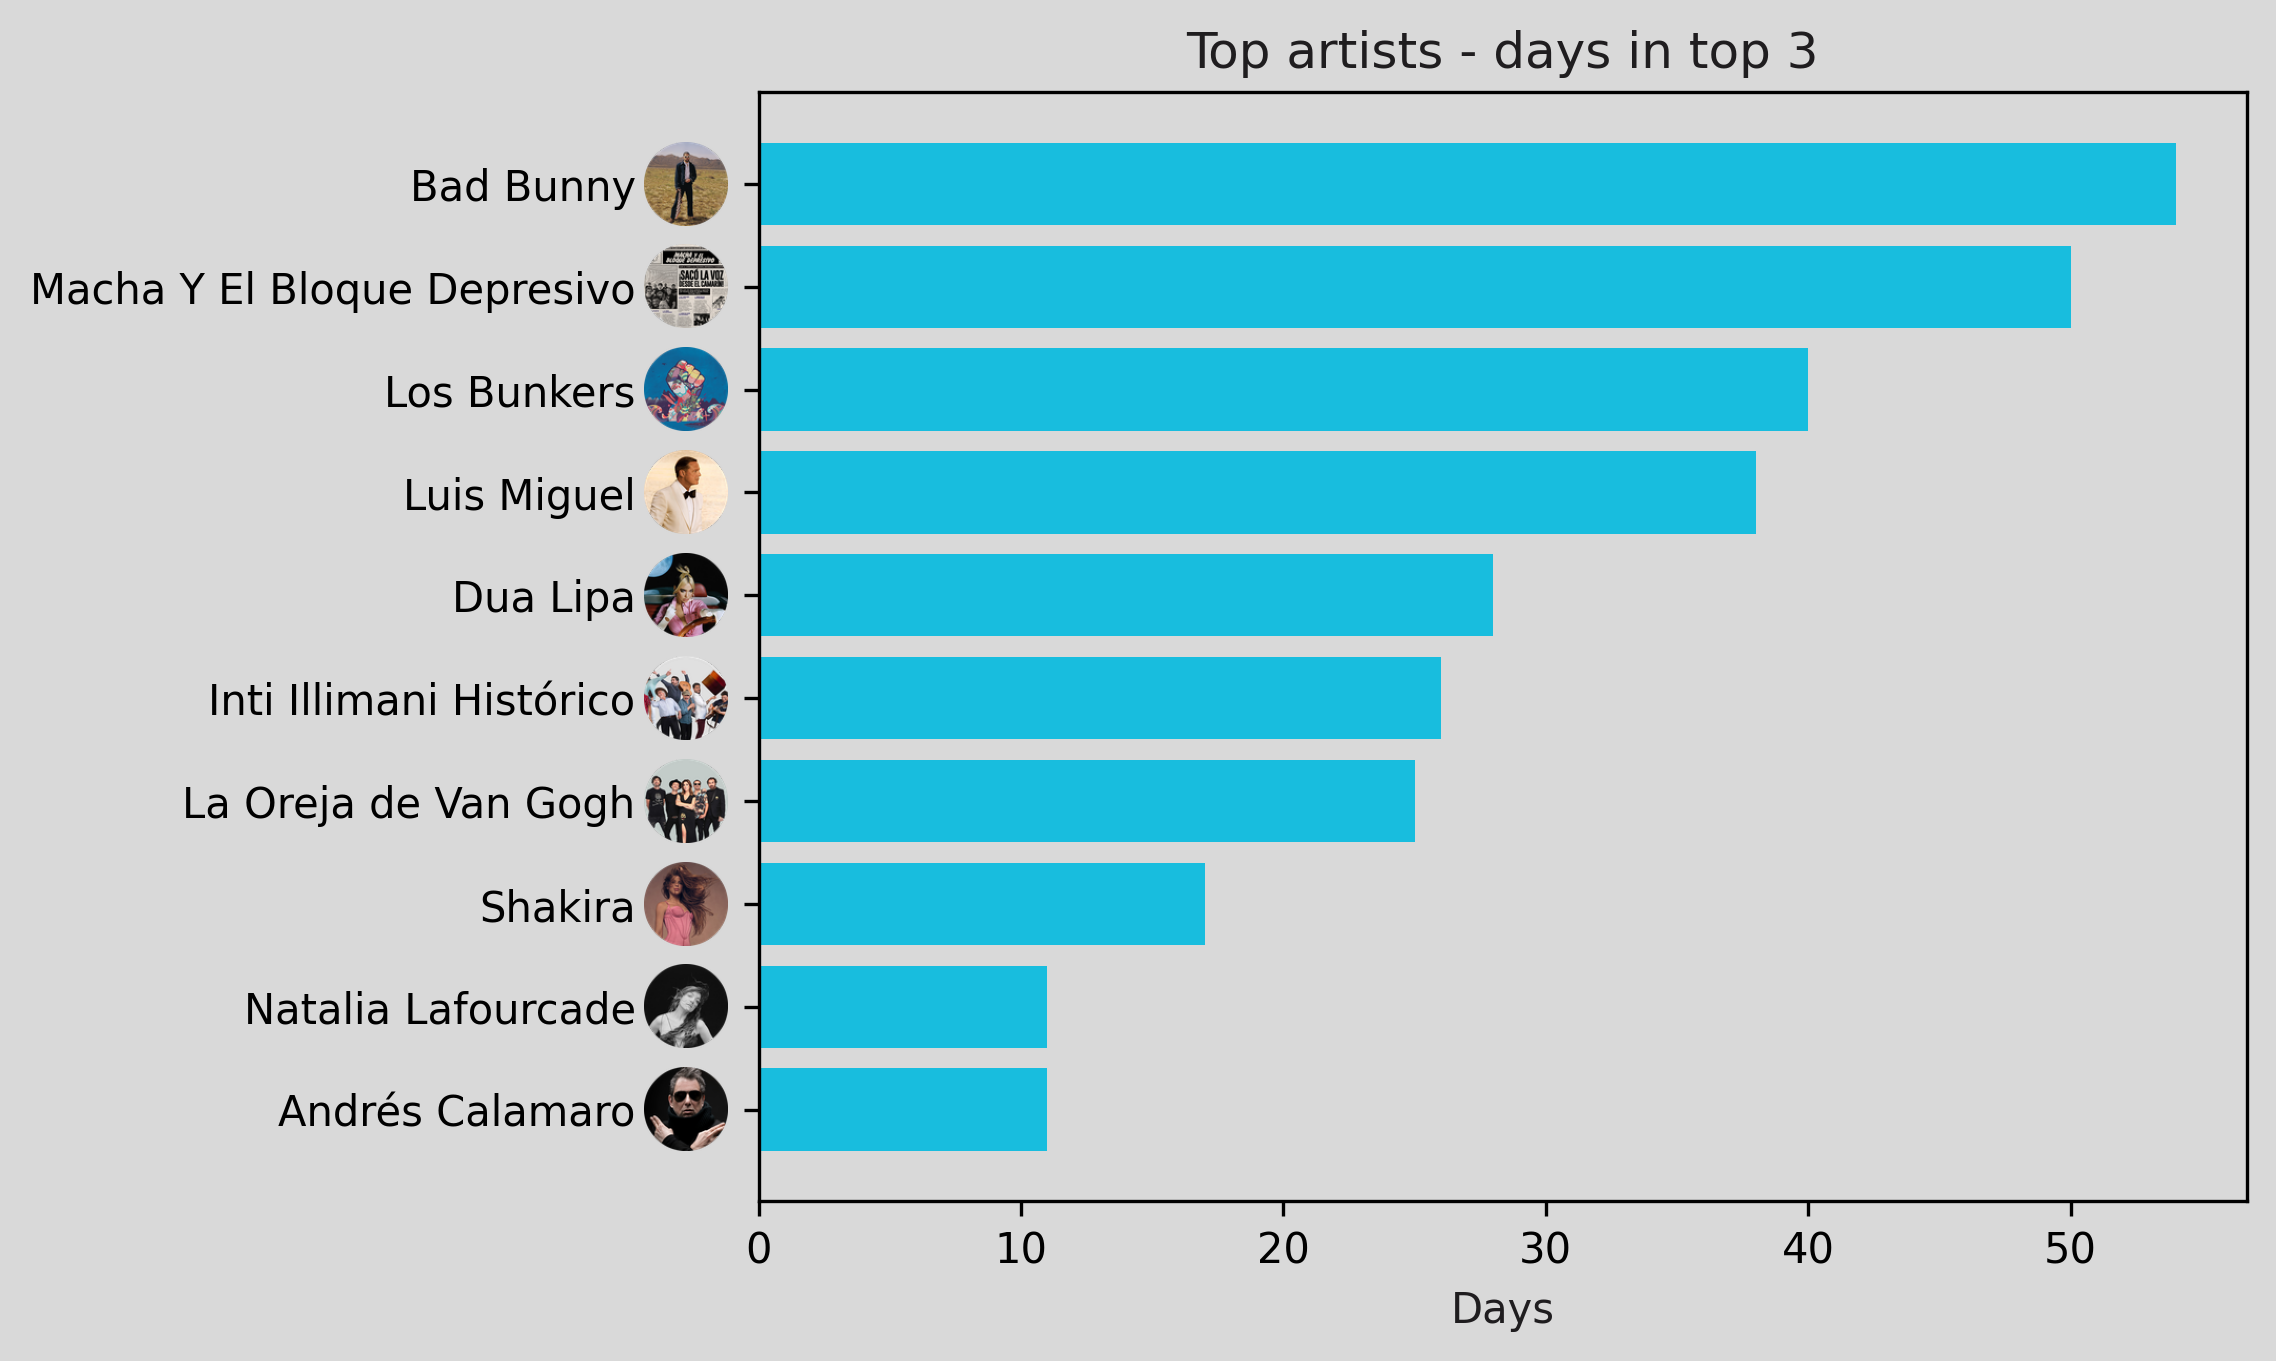
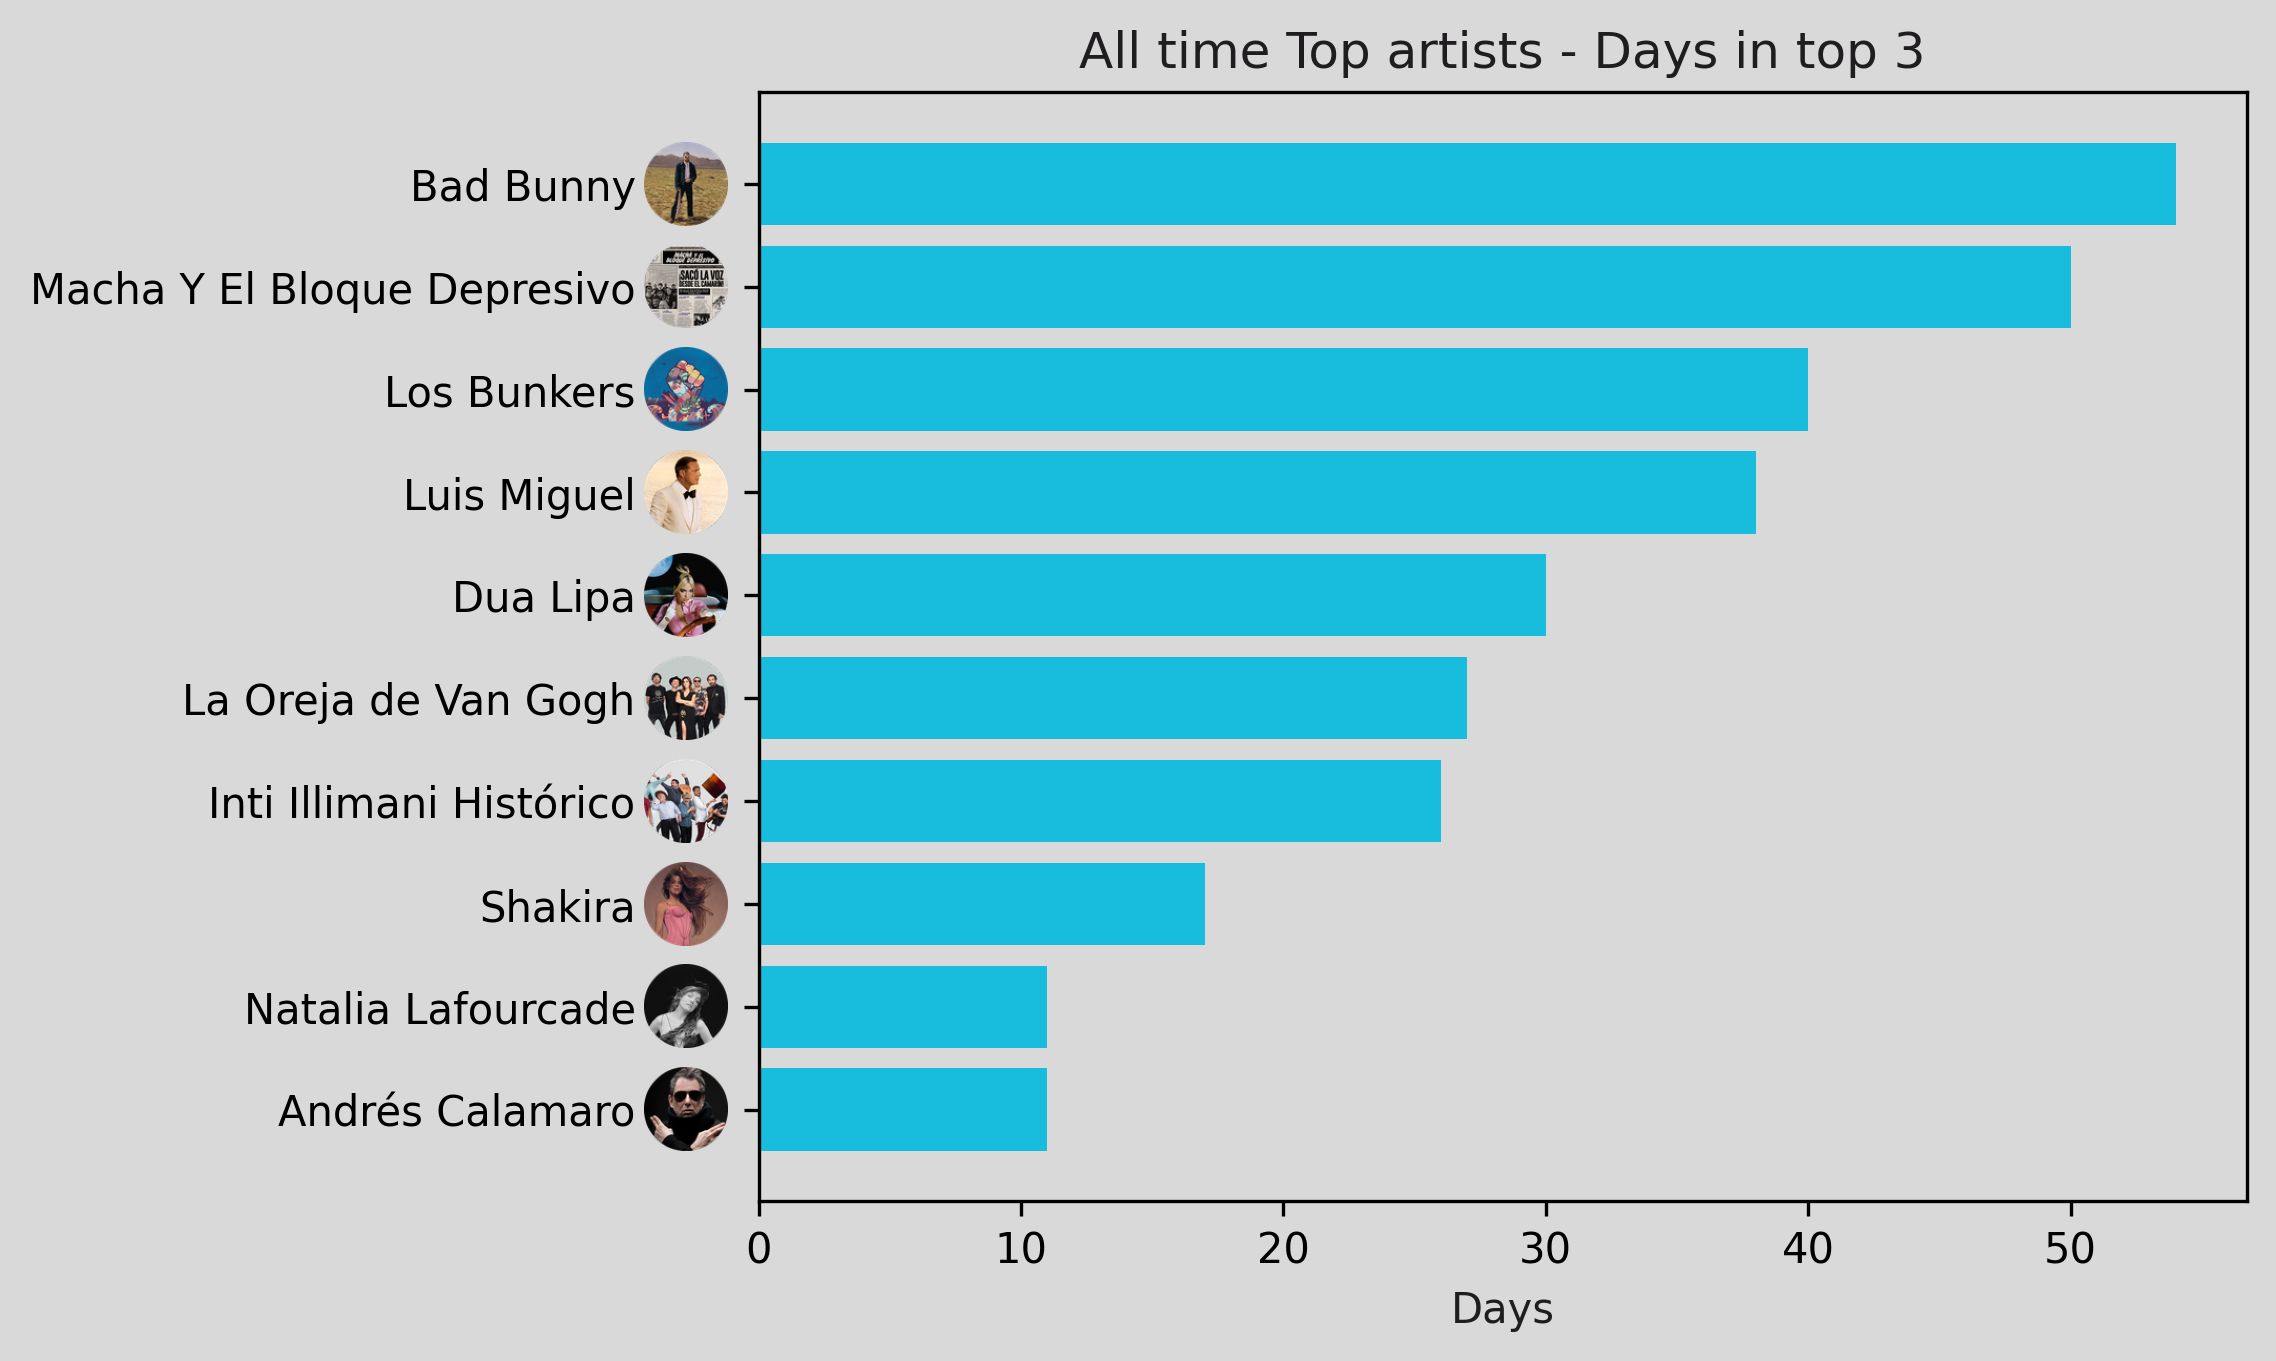
Feat/api external (#19)
* add: external api endopints

* update: change postgres to api connection

* update: content

Changed region(s): [[0.0936, 0.4629, 0.3431, 0.6172], [0.4679, 0.0309, 0.8423, 0.0617], [0.6239, 0.4012, 0.6863, 0.6172]]

diff --git a/src/clients.py b/src/clients.py
@@ -109,3 +109,32 @@ class Postgres:
 
     def fetch_query(self, query):
         return pd.read_sql(sql=query, con=self.engine)
+
+
+class ExternalAPI:
+    def __init__(self):
+        self.hostname = os.getenv("API_URL")
+        self.user = os.getenv("DJANGO_ANON_USER")
+        self.password = os.getenv("DJANGO_ANON_PASSWORD")
+        self.artists_endpoint = f"{self.hostname}/artists_ranking/"
+        self.tracks_endpoint = f"{self.hostname}/tracks_ranking/"
+
+    def fetch_artists_ranking(self):
+        response = self.fetch_response(self.artists_endpoint, auth=self.get_auth())
+        return self.get_dataframe_from_response(response)
+
+    def fetch_tracks_ranking(self):
+        response = self.fetch_response(self.tracks_endpoint, auth=self.get_auth())
+        return self.get_dataframe_from_response(response)
+
+    def fetch_response(self, url, auth):
+        response = requests.get(url, auth=auth)
+        if response.status_code != 200:
+            raise ValueError(f"Status code in response: {response.status_code}")
+        return response.json()
+
+    def get_auth(self):
+        return (self.user, self.password)
+
+    def get_dataframe_from_response(self, response):
+        return pd.DataFrame().from_records(response)

diff --git a/src/ranking_plotter.py b/src/ranking_plotter.py
@@ -2,23 +2,25 @@ from io import BytesIO
 
 import matplotlib.pyplot as plt
 import numpy as np
-import pandas as pd
 import requests
 from matplotlib.offsetbox import AnnotationBbox, OffsetImage
 from PIL import Image, ImageDraw
 
-from src.clients import Postgres
+from src.clients import ExternalAPI
 
 
 class RankingImageGenerator:
-    def __init__(self, query, title):
+    def __init__(self, items, title):
         self.title = title
-        self.df = self.get_data(query)
+        self.df = self.get_data(items)
         self.df.sort_values("count", ascending=True, inplace=True)
 
-    def get_data(self, query):
-        postgres = Postgres()
-        return postgres.fetch_query(query)
+    def get_data(self, items):
+        api = ExternalAPI()
+        if items == "artists":
+            return api.fetch_artists_ranking()
+        elif items == "tracks":
+            return api.fetch_tracks_ranking()
 
     @staticmethod
     def get_image(url):

diff --git a/commands/plot_tracks_days_in_top.py b/commands/plot_tracks_days_in_top.py
@@ -1,8 +1,6 @@
-from src.queries_manager import Queries_Manager
 from src.ranking_plotter import RankingImageGenerator
 
 if __name__ == "__main__":
-    query = Queries_Manager().get_sql_script("plot_tracks_days_in_top")
-    RankingImageGenerator(query, title="Top songs - days in top 3").save_ranking_image(
-        "ranking_songs.png"
-    )
+    RankingImageGenerator(
+        items="tracks", title="All time Top songs - Days in top 3"
+    ).save_ranking_image("ranking_songs.png")

diff --git a/commands/plot_artists_days_in_top.py b/commands/plot_artists_days_in_top.py
@@ -1,8 +1,6 @@
-from src.queries_manager import Queries_Manager
 from src.ranking_plotter import RankingImageGenerator
 
 if __name__ == "__main__":
-    query = Queries_Manager().get_sql_script("plot_artist_days_in_top")
     RankingImageGenerator(
-        query, title="Top artists - days in top 3"
+        items="artists", title="All time Top artists - Days in top 3"
     ).save_ranking_image("ranking_artists.png")
